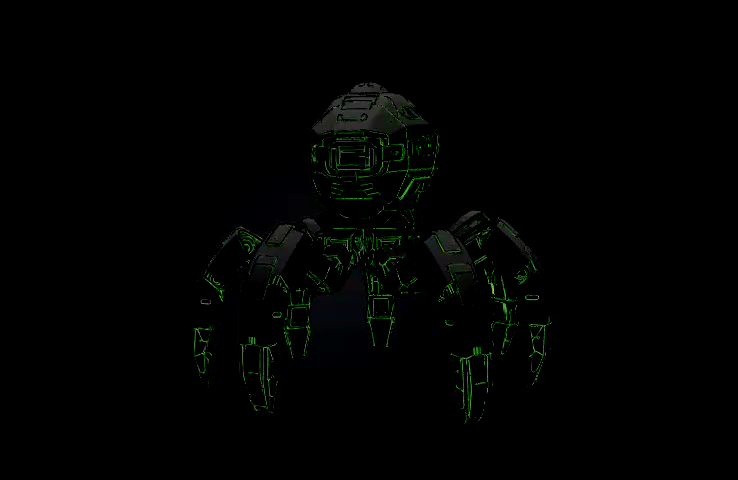
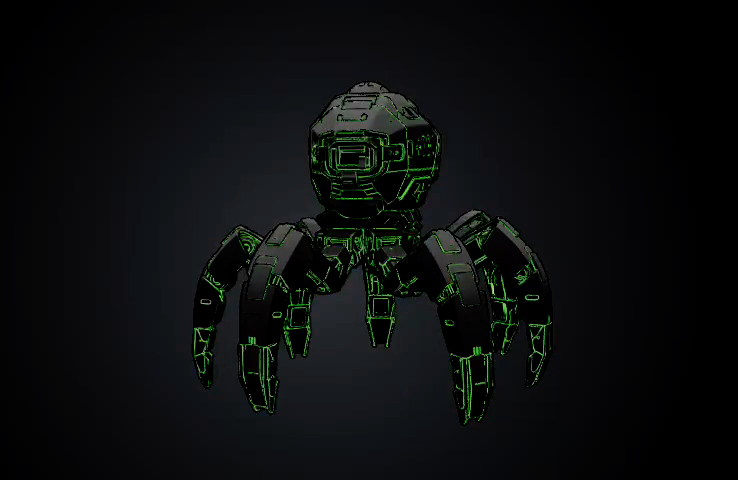
Lab: 3 fixes — lighter robot, 10 discrete frames, boot logs with typing
1. Robot frames lighter (more visible body + green contours)
2. 10 frames at 320ms each (discrete stop-motion, was 31 at 80ms)
3. Boot sequence fixed: logs type with animation (8ms/char), staggered
   120ms apart. Hold 800ms. Then cascade 2 reveals blocks 80ms apart.
   Logs now clearly precede block content.

Changed region(s): [[0.2182, 0.1562, 0.748, 0.9062]]

diff --git a/lab/index.html b/lab/index.html
@@ -335,11 +335,15 @@ html,body{
 .poster > *.logging .vbase-inner,
 .poster > *.logging .info-c,
 .poster > *.logging .custom-font,
+.poster > *.logging #main3d,
 .poster > *.logging canvas,
 .poster > *.logging .big,
 .poster > *.logging .tagline,
 .poster > *.logging .lb,
-.poster > *.logging .nr{
+.poster > *.logging .nr,
+.poster > *.logging .sensors,
+.poster > *.logging .fl,
+.poster > *.logging .foot-line span{
   opacity:0 !important;
 }
 /* Phase 2: everything visible */
@@ -350,11 +354,15 @@ html,body{
 .poster > *.revealed .vbase-inner,
 .poster > *.revealed .info-c,
 .poster > *.revealed .custom-font,
+.poster > *.revealed #main3d,
 .poster > *.revealed canvas,
 .poster > *.revealed .big,
 .poster > *.revealed .tagline,
 .poster > *.revealed .lb,
-.poster > *.revealed .nr{
+.poster > *.revealed .nr,
+.poster > *.revealed .sensors,
+.poster > *.revealed .fl,
+.poster > *.revealed .foot-line span{
   opacity:1 !important;
 }
 /* Log overlay — bright, impossible to miss */
@@ -609,6 +617,18 @@ function cls(b){b.closest('.ex').classList.remove('open')}
 
   // Cascade 1: show all logs fast, one after another
   // Cascade 2: replace logs with blocks fast, one after another
+  // Type text character by character into a log div
+  function typeInto(logDiv, text, speed, cb){
+    let i = 0;
+    function tick(){
+      if(i >= text.length){ if(cb) cb(); return; }
+      i++;
+      logDiv.textContent = text.slice(0, i) + '█';
+      setTimeout(tick, speed);
+    }
+    tick();
+  }
+
   function bootBlocks(){
     const blocks = [];
     blockCfg.forEach(cfg => {
@@ -617,30 +637,38 @@ function cls(b){b.closest('.ex').classList.remove('open')}
       blocks.push({el, text: cfg.logs.join('\n')});
     });
 
-    // Cascade 1 — logs appear instantly, staggered 80ms apart
+    // Cascade 1 — logs appear staggered, each types fast
+    let logDelay = 0;
     blocks.forEach((b, i) => {
+      const startAt = logDelay;
       setTimeout(() => {
         b.el.classList.add('logging');
         const log = document.createElement('div');
         log.className = 'block-log';
-        log.textContent = b.text;
+        log.textContent = '█';
         b.el.appendChild(log);
         b.log = log;
-      }, i * 80);
+        typeInto(log, b.text, 8);
+      }, startAt);
+      // Stagger: next log starts 120ms after this one
+      logDelay += 120;
     });
 
-    // Cascade 2 — after all logs shown, swap to blocks staggered 60ms
-    const logsTime = blocks.length * 80 + 600; // hold logs visible for 600ms
+    // Cascade 2 — after ALL logs typed + hold 800ms, swap to blocks
+    const allLogsTyped = logDelay + 400; // worst case typing time
+    const holdTime = 800;
+    const cascade2Start = allLogsTyped + holdTime;
+
     blocks.forEach((b, i) => {
       setTimeout(() => {
         b.el.classList.remove('logging');
         b.el.classList.add('revealed');
         if(b.log) b.log.remove();
-      }, logsTime + i * 60);
+      }, cascade2Start + i * 80);
     });
 
-    // VERT letters after all blocks
-    setTimeout(() => bootVert(), logsTime + blocks.length * 60 + 100);
+    // VERT letters after all blocks revealed
+    setTimeout(() => bootVert(), cascade2Start + blocks.length * 80 + 100);
   }
 
   function bootVert(){
@@ -804,12 +832,12 @@ function cls(b){b.closest('.ex').classList.remove('open')}
   }
 })();
 
-// ═══ MAIN 3D ROTATION — 31 frames, loop forever ═══
+// ═══ MAIN 3D ROTATION — 10 frames, discrete step animation ═══
 (function(){
   const el = document.getElementById('main3d');
   if(!el) return;
-  const total = 31;
-  const delay = 80; // ~12.5fps
+  const total = 10;
+  const holdTime = 320; // ms per frame — slow discrete steps like stop-motion
   const frames = [];
   let loaded = 0;
   let idx = 0;
@@ -825,7 +853,7 @@ function cls(b){b.closest('.ex').classList.remove('open')}
     setInterval(() => {
       idx = (idx + 1) % total;
       el.src = frames[idx].src;
-    }, delay);
+    }, holdTime);
   }
 })();
 </script>
